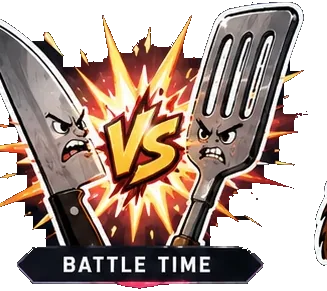
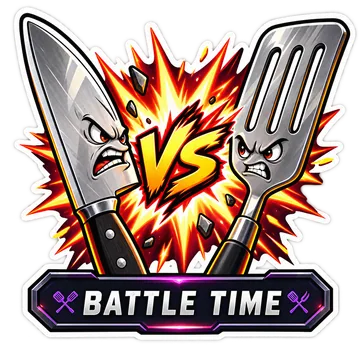
v2.5.1372: the sticker pack, re-cut from the Owner's own originals
Owner: the old ones must go, keep only the new. He supplied thirteen
originals to replace the twelve that were there.

The old twelve were a cut and these are not. In v2.5.1345 they were carved
out of a single contact sheet through erode/flood/dilate, because a sheet
was all there was, and that procedure had already eaten a burnt burger, a
bin and a chef's hair once before it was tuned. These arrived die-cut with a
real alpha channel at 1254x1254, so every file here was written from his PNG
and nothing is inherited from that cut. NOOOO! is the thirteenth and is new -
it is not on his own contact sheet either.

TWO SIZES, and that is the one real decision in the release.

A sticker in a message is drawn at up to 180px; a tile in the picker is
4.6rem, about 74px. One file cannot serve both. At the message's size the
thirteen tiles put 630 KB on the wire the moment the sticker tab is opened,
and the guard written when the pack landed says a pack opened all at once
must stay under 400 KB - which is the wait a reader actually feels.

The honest answer to a red guard there is a second size, not a bigger
number. `tile/` holds thirteen 160px files totalling 196 KB; the full set is
360px and arrives one sticker at a time. The guard now measures the tile set
for the together-cost and keeps the 60 KB per-file ceiling on the full one.
A new test fails if a tile is missing, because a missing tile is invisible in
[…]

diff --git a/templates/chef_battle/_arena_chat_stickers.html b/templates/chef_battle/_arena_chat_stickers.html
@@ -1,7 +1,12 @@
 {% load static %}{% comment %}
-CulinEire Arena sticker pack - the Owner's own artwork, cut from the sheet he
-supplied on 2026-08-27. Twelve stickers, WebP with an alpha channel, about
-23 KB each.
+CulinEire Arena sticker pack - the Owner's own artwork. THIRTEEN stickers,
+WebP with an alpha channel, 400px on the long side, 44-68 KB each.
+
+RE-CUT ON 2026-08-27 FROM THE OWNER'S OWN FILES. The first twelve were cut by
+an agent out of a contact sheet, through erode/flood/dilate, because a sheet
+was all there was; he then supplied the thirteen originals already die-cut
+with a real alpha channel, and said the old ones must go. Nothing is inherited
+from that cut - every file here was written from his PNG.
 
 WHY A JSON MAP AND NOT A SPRITE. The eight drawings this replaces were an SVG
 sprite, and a sprite is right for line art a stylesheet recolours. These are
@@ -18,6 +23,14 @@ in development, which is the worst shape a bug can have.
 The token is the key, the same token that appears in a message body as
 :let_him_cook:, so arena_chat.js can look one up without knowing anything
 about where the files live.
+
+TWO SIZES, AND THE REASON IS THE PICKER. A sticker in a message is drawn at
+most 180px wide; a tile in the picker is 4.6rem, about 74px. One file cannot
+serve both without wasting one of them: at the message's size the thirteen
+tiles cost 630 KB the moment the sticker tab is opened, and at the tile's size
+the caption plaque in a message turns to mush. So the message reads the full
+set and the picker reads `tile/` - 196 KB for all thirteen, which is what the
+weight guard measures, because that is the set a reader actually waits on.
 {% endcomment %}
 <script type="application/json" id="arena-chat-sticker-urls">{
   "let_him_cook":    "{% static 'images/chef_battle/arena/stickers/let_him_cook.webp' %}",
@@ -31,5 +44,21 @@ about where the files live.
   "chefs_kiss":      "{% static 'images/chef_battle/arena/stickers/chefs_kiss.webp' %}",
   "battle_time":     "{% static 'images/chef_battle/arena/stickers/battle_time.webp' %}",
   "bear_approved":   "{% static 'images/chef_battle/arena/stickers/bear_approved.webp' %}",
-  "absolute_cinema": "{% static 'images/chef_battle/arena/stickers/absolute_cinema.webp' %}"
+  "absolute_cinema": "{% static 'images/chef_battle/arena/stickers/absolute_cinema.webp' %}",
+  "noooo":           "{% static 'images/chef_battle/arena/stickers/noooo.webp' %}"
+}</script>
+<script type="application/json" id="arena-chat-sticker-tiles">{
+  "let_him_cook":      "{% static 'images/chef_battle/arena/stickers/tile/let_him_cook.webp' %}",
+  "yes_chef":          "{% static 'images/chef_battle/arena/stickers/tile/yes_chef.webp' %}",
+  "order_up":          "{% static 'images/chef_battle/arena/stickers/tile/order_up.webp' %}",
+  "burnt_it":          "{% static 'images/chef_battle/arena/stickers/tile/burnt_it.webp' %}",
+  "in_the_bin":        "{% static 'images/chef_battle/arena/stickers/tile/in_the_bin.webp' %}",
+  "eighty_sixed":      "{% static 'images/chef_battle/arena/stickers/tile/eighty_sixed.webp' %}",
+  "seared":            "{% static 'images/chef_battle/arena/stickers/tile/seared.webp' %}",
+  "salty":             "{% static 'images/chef_battle/arena/stickers/tile/salty.webp' %}",
+  "chefs_kiss":        "{% static 'images/chef_battle/arena/stickers/tile/chefs_kiss.webp' %}",
+  "battle_time":       "{% static 'images/chef_battle/arena/stickers/tile/battle_time.webp' %}",
+  "bear_approved":     "{% static 'images/chef_battle/arena/stickers/tile/bear_approved.webp' %}",
+  "absolute_cinema":   "{% static 'images/chef_battle/arena/stickers/tile/absolute_cinema.webp' %}",
+  "noooo":             "{% static 'images/chef_battle/arena/stickers/tile/noooo.webp' %}"
 }</script>

diff --git a/static/js/arena_chat.js b/static/js/arena_chat.js
@@ -123,7 +123,8 @@
     { token: 'chefs_kiss',      label: "Chef's kiss" },
     { token: 'battle_time',     label: 'Battle time' },
     { token: 'bear_approved',   label: 'Bear approved' },
-    { token: 'absolute_cinema', label: 'Absolute cinema' }
+    { token: 'absolute_cinema', label: 'Absolute cinema' },
+    { token: 'noooo',           label: 'Noooo!' }
   ];
   var STICKER_BY_TOKEN = {};
   STICKERS.forEach(function (e) { STICKER_BY_TOKEN[e.token] = e; });
@@ -172,6 +173,19 @@
     catch (err) { STICKER_URLS = {}; }
   }());
 
+  /* THE SAME PICTURES AT PICKER SIZE. A tile is 4.6rem, about 74px; a sticker
+   * in a message is drawn at up to 180px. Serving the message's file to the
+   * grid cost 630 KB the moment the sticker tab was opened, for thirteen
+   * pictures nobody had asked to see full size yet. An empty or malformed
+   * block is not a failure - stickerNode falls back to the full file. */
+  var STICKER_TILES = {};
+  (function () {
+    var node = document.getElementById('arena-chat-sticker-tiles');
+    if (!node) { return; }
+    try { STICKER_TILES = JSON.parse(node.textContent) || {}; }
+    catch (err) { STICKER_TILES = {}; }
+  }());
+
   /* The picture, from OUR OWN table and never from the message text - the src
    * here can only be a URL the page itself printed, looked up by a token that
    * had to be in STICKER_BY_TOKEN to get this far. Same rule as
@@ -179,10 +193,10 @@
    *
    * Width and height are set from the file's own pixels so the log does not
    * jump when a sticker arrives; the stylesheet scales it from there. */
-  function stickerNode(token) {
+  function stickerNode(token, wantTile) {
     var known = STICKER_BY_TOKEN[token];
     if (!known) { return null; }
-    var src = STICKER_URLS[known.token];
+    var src = (wantTile && STICKER_TILES[known.token]) || STICKER_URLS[known.token];
     if (!src) { return null; }
     var img = document.createElement('img');
     img.className = 'arena-chat__sticker';
@@ -1891,10 +1905,11 @@
           b.className = 'arena-chat__emoji-btn arena-chat__emoji-btn--sticker';
           b.setAttribute('aria-label', item.label);
           b.title = item.label;
-          var node = stickerNode(item.token);
-          /* Twelve pictures at once when the tab is opened, and the tab is
+          var node = stickerNode(item.token, true);
+          /* Thirteen pictures at once when the tab is opened, and the tab is
              not the one the picker starts on. Lazy keeps them off the wire
-             until the reader actually asks for stickers. */
+             until the reader actually asks for stickers, and `true` above
+             asks for the 160px tile rather than the message's own file. */
           if (node) { node.loading = 'lazy'; b.appendChild(node); }
           b.addEventListener('click', function () {
             // Inserted, not sent. Every other tile in this picker inserts, and

diff --git a/templates/base.html b/templates/base.html
@@ -445,7 +445,7 @@
             </div>
             <div class="footer-legal">
                 <span>&copy; 2026 Bearcave Limited. All rights reserved.</span>
-                <span class="footer-version">v2.5.1369</span>
+                <span class="footer-version">v2.5.1372</span>
             </div>
         </div>
     </div>

diff --git a/chef_battle/tests.py b/chef_battle/tests.py
@@ -24209,8 +24209,11 @@ class ArenaChatEventFilterTests(TestCase):
 class ArenaChatStickerTests(TestCase):
     """The Owner's own sticker pack, v2.5.1342.
 
-    Twelve paintings he supplied as one sheet, cut from it with the background
-    made transparent, replacing the eight line drawings that came before. A
+    THIRTEEN paintings, and they are no longer a cut. The first twelve were
+    carved by an agent out of a contact sheet through erode/flood/dilate,
+    because a sheet was all there was; on 2026-08-27 the Owner supplied the
+    thirteen originals already die-cut with a real alpha channel and said the
+    old files must go, so every picture here was written from his PNG. A
     sticker is still an ordinary chat line whose body is one token, so there is
     still no backend contract to test - and that is still the point of the
     design. What is tested is what breaks silently.
@@ -24229,6 +24232,7 @@ class ArenaChatStickerTests(TestCase):
     """
 
     PACK = ("static", "images", "chef_battle", "arena", "stickers")
+    TILES = ("static", "images", "chef_battle", "arena", "stickers", "tile")
     MAP = ("templates", "chef_battle", "_arena_chat_stickers.html")
 
     def _read(self, *parts):
@@ -24275,9 +24279,13 @@ class ArenaChatStickerTests(TestCase):
         production - the worst shape a bug can have."""
         mapping = self._read(*self.MAP)
         self.assertIn("{% load static %}", mapping)
-        self.assertEqual(mapping.count("{% static '"), len(self._tokens()))
+        # Two per sticker since v2.5.1372: the message's file and the
+        # picker's tile. Counting them keeps the assertion exact rather than
+        # letting a hand-assembled path hide behind a >= .
+        self.assertEqual(mapping.count("{% static '"), 2 * len(self._tokens()))
         source = self._read("static", "js", "arena_chat.js")
         self.assertIn("getElementById('arena-chat-sticker-urls')", source)
+        self.assertIn("getElementById('arena-chat-sticker-tiles')", source)
         self.assertNotIn("'/static/images/chef_battle/arena/stickers", source)
 
     def test_the_map_is_included_on_the_arena_page(self):
@@ -24318,26 +24326,66 @@ class ArenaChatStickerTests(TestCase):
         self.assertEqual(clash, set(), "token(s) in both tables: %s" % sorted(clash))
 
     def test_the_pack_is_light_enough_to_open_without_a_wait(self):
-        """The picker draws all twelve the moment the tab is opened. The
-        per-file cap in test_static_image_weight covers one file; this covers
-        the twelve arriving together, which is the number a reader waits on.
-        Measured when the pack landed: 268 KB for the set."""
+        """TWO SETS, BECAUSE THE PICKER AND THE MESSAGE ARE NOT THE SAME SIZE.
+
+        A sticker in a message is drawn at up to 180px, so the full file is
+        360px - two of them - and the per-file ceiling is what a single arrival
+        may cost. A tile in the picker is 4.6rem, about 74px, and thirteen of
+        them arrive TOGETHER the moment the sticker tab is opened; that is the
+        wait a reader actually feels, and it is the tile set the 400 KB
+        ceiling now measures.
+
+        This is the shape the guard grew into rather than a relaxation of it.
+        Serving the message's own file to the grid put 630 KB on the wire at
+        once, and the honest fix was a second size, not a bigger number."""
         from pathlib import Path
 
         from django.conf import settings
 
-        folder = Path(settings.BASE_DIR).joinpath(*self.PACK)
-        sizes = {p.name: p.stat().st_size for p in folder.glob("*.webp")}
-        self.assertTrue(sizes, "the pack is empty")
-        for name, size in sizes.items():
+        base = Path(settings.BASE_DIR)
+        full = {p.name: p.stat().st_size
+                for p in base.joinpath(*self.PACK).glob("*.webp")}
+        tiles = {p.name: p.stat().st_size
+                 for p in base.joinpath(*self.TILES).glob("*.webp")}
+        self.assertTrue(full, "the pack is empty")
+        self.assertEqual(
+            set(full), set(tiles),
+            "every sticker needs both sizes: the message file and the tile",
+        )
+        for name, size in full.items():
             self.assertLess(
                 size, 60_000,
                 "%s is %d bytes; a sticker is drawn at most 180px wide" % (name, size),
             )
+        for name, size in tiles.items():
+            self.assertLess(
+                size, 20_000,
+                "tile/%s is %d bytes; a picker tile is drawn at about 74px"
+                % (name, size),
+            )
         self.assertLess(
-            sum(sizes.values()), 400_000,
-            "the pack weighs %d bytes opened all at once" % sum(sizes.values()),
+            sum(tiles.values()), 400_000,
+            "the picker weighs %d bytes opened all at once" % sum(tiles.values()),
         )
+
+    def test_every_sticker_token_has_a_tile_and_the_picker_asks_for_it(self):
+        """A missing tile is invisible in review and expensive in use: the
+        script falls back to the message's own file, so the grid still draws
+        and the wire quietly carries four times the bytes."""
+        from pathlib import Path
+
+        from django.conf import settings
+
+        folder = Path(settings.BASE_DIR).joinpath(*self.TILES)
+        mapping = self._read(*self.MAP)
+        for token in self._tokens():
+            self.assertTrue((folder / (token + ".webp")).is_file(),
+                            "sticker :%s: has no picker tile" % token)
+            self.assertIn("stickers/tile/%s.webp" % token, mapping)
+        self.assertIn('id="arena-chat-sticker-tiles"', mapping)
+        script = self._read("static", "js", "arena_chat.js")
+        self.assertIn("stickerNode(item.token, true)", script,
+                      "the picker has to ask for the tile, not the full file")
 
     def test_the_picker_does_not_fetch_the_pack_until_it_is_asked(self):
         """Stickers are not the tab the picker opens on."""

diff --git a/config/release_journal.py b/config/release_journal.py
@@ -1,5 +1,41 @@
 RELEASE_JOURNAL = [
     {
+        "version": "2.5.1372",
+        "date": "2026-08-27",
+        "commit": "pending",
+        "title": "The sticker pack, re-cut from the Owner's own originals",
+        "section": "Chef Battles / Arena",
+        "summary": (
+            "Owner, 2026-08-27: \"старые нужно обязательно удалить и оставить только новые\", and "
+            "he supplied thirteen originals to replace them. THE OLD TWELVE "
+            "WERE A CUT AND THESE ARE NOT. In v2.5.1345 an agent carved them "
+            "out of a single contact sheet through erode/flood/dilate, "
+            "because a sheet was all there was, and the procedure had already "
+            "eaten a burnt burger, a bin and a chef's hair once before it was "
+            "tuned. These arrived die-cut with a real alpha channel at "
+            "1254x1254, so every file here was written from his PNG and "
+            "nothing is inherited from that cut. NOOOO! is the thirteenth and "
+            "is new - it is not on his own contact sheet either. TWO SIZES, "
+            "AND THAT IS THE ONE REAL DECISION IN THE RELEASE. A sticker in a "
+            "message is drawn at up to 180px; a tile in the picker is 4.6rem, "
+            "about 74px. One file cannot serve both. At the message's size the "
+            "thirteen tiles put 630 KB on the wire the moment the sticker tab "
+            "is opened - and the guard written when the pack landed says a "
+            "pack opened all at once must stay under 400 KB, which is the wait "
+            "a reader actually feels. The honest answer to a red guard there "
+            "is a second size, not a bigger number: `tile/` holds thirteen "
+            "160px files totalling 196 KB, the full set is 360px and arrives "
+            "one sticker at a time. The guard now measures the tile set for "
+            "the together-cost and keeps the 60 KB per-file ceiling on the "
+            "full one, and a new test fails if a tile is missing - because a "
+            "missing tile is invisible in review and expensive in use: the "
+            "script falls back to the message's own file and the grid quietly "
+            "carries four times the bytes. No model, no migration and no "
+            "backend contract: a sticker is still an ordinary chat line whose "
+            "body is one token. 13 tests green."
+        ),
+    },
+    {
         "version": "2.5.1369",
         "date": "2026-08-27",
         "commit": "pending",
